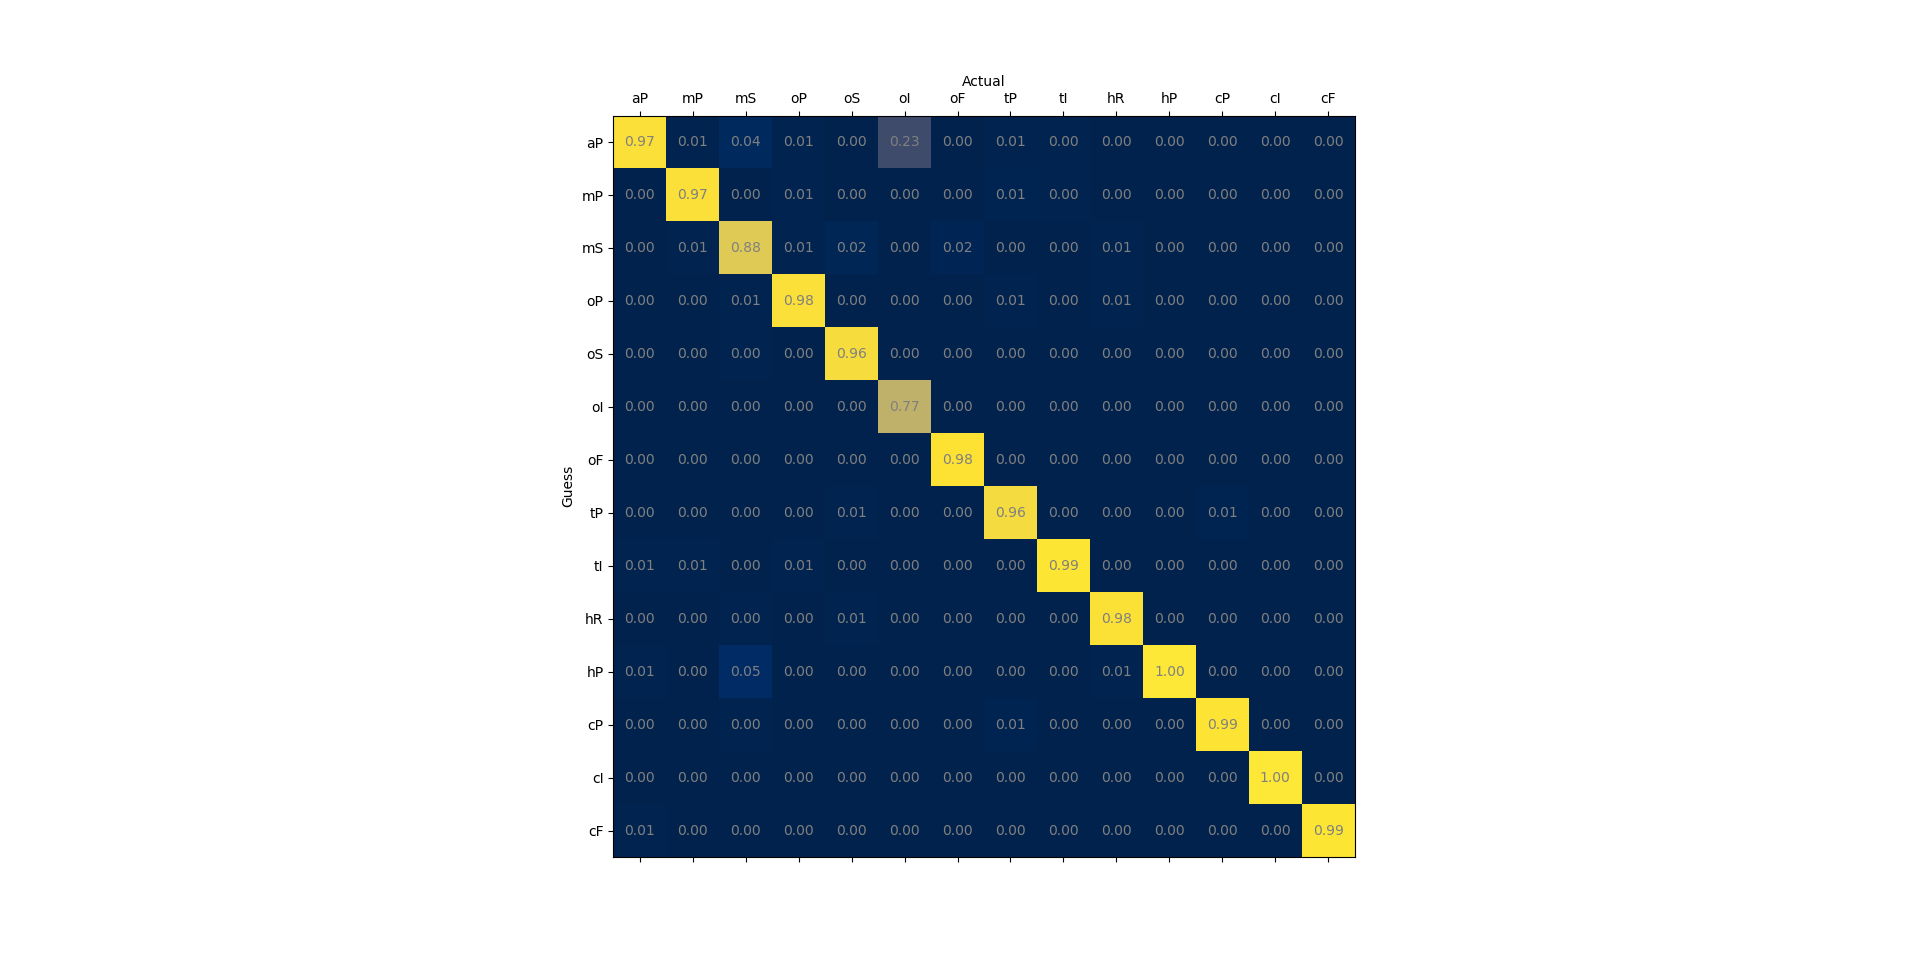
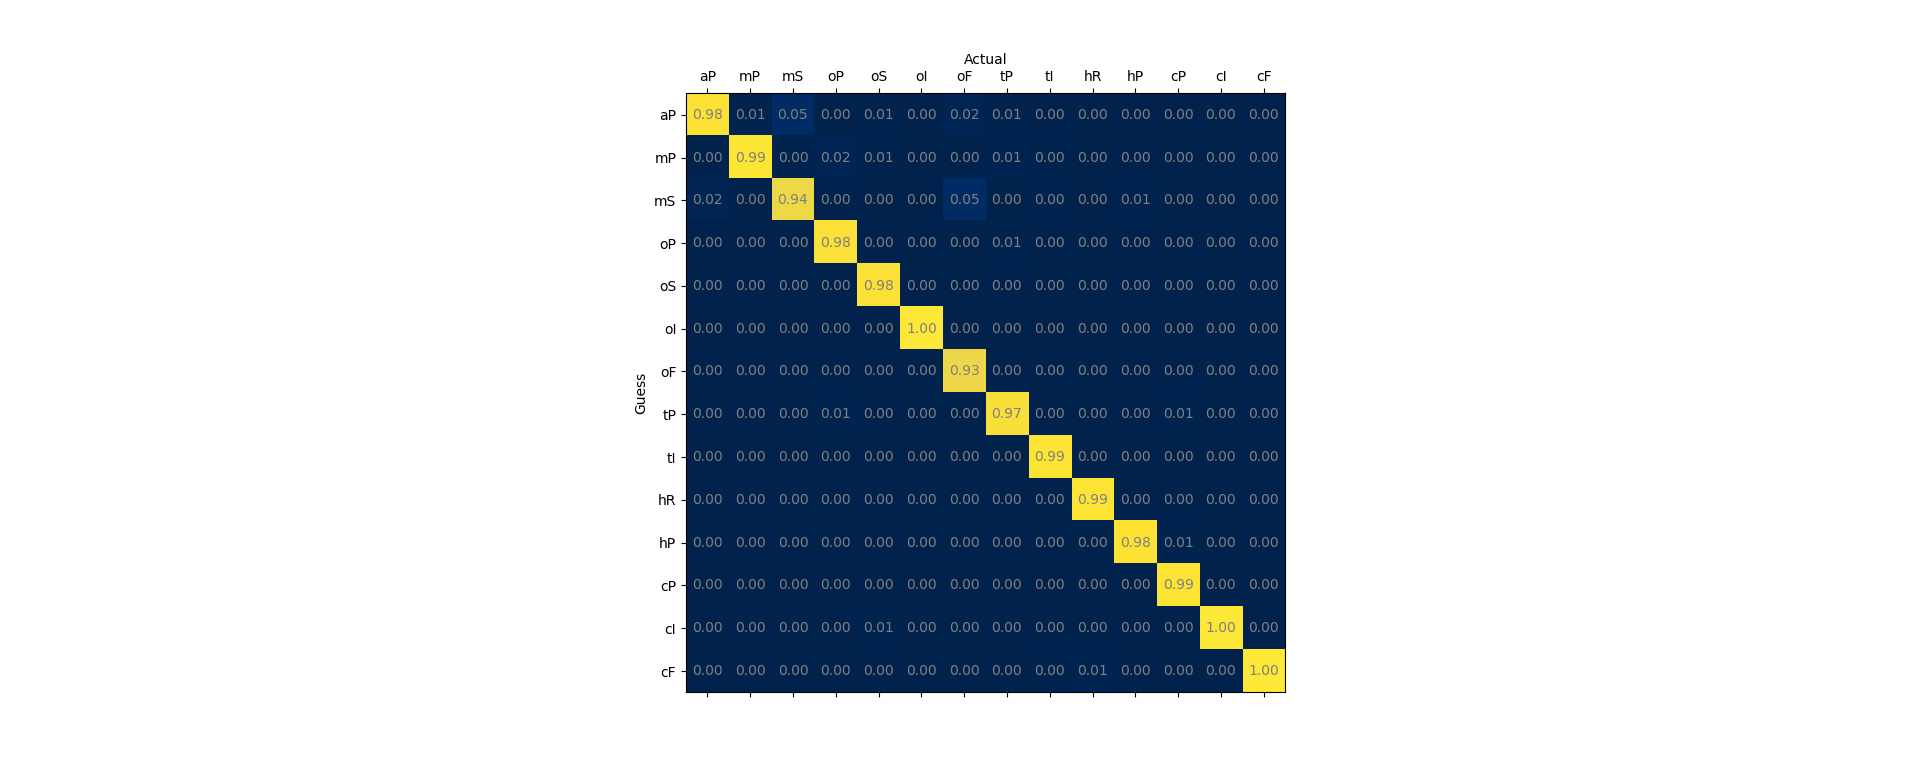
removed randomize when load, removed lattice system, fixed main_analysis

Changed region(s): [[0.3125, 0.0617, 0.7188, 0.8946]]

diff --git a/main_analysis.py b/main_analysis.py
@@ -2,63 +2,54 @@ import numpy as np
 
 import function_analysis
 import crystalsystem
-import latticesystem
 import bravaislattice
 
 if __name__ == '__main__':
+    # # space group
     # function_analysis.print_result(
     #     group_numbers=range(1, 231),
     #     guess_list_dir="list/guess/",
     #     actual_list_dir="list/actual/",
-    #     list_format="spacegroup_list_{}.txt"
+    #     list_format="spacegroup_list_{}.txt",
+    #     validate_size=0.1
     # )
     #
-    # def json2inputlabel(data_json):
+    # def json2label(data_json):
     #     data_label_np = np.array([data_json["number"] - 1])
     #     return data_label_np
-    # function_analysis.get_confusion(range(1, 231), "list/guess/spacegroup_list_{}.txt", json2inputlabel)
+    # function_analysis.plot_confusion(range(1, 231), "list/guess/spacegroup_list_{}.txt", json2label)
 
+    # # crystal system
     # function_analysis.print_result(
     #     group_numbers=range(1, 8),
     #     guess_list_dir="list/guess/",
     #     actual_list_dir="list/actual/",
-    #     list_format="crystalsystem_list_{}.txt"
+    #     list_format="crystalsystem_list_{}.txt",
+    #     validate_size=0.1
     # )
     #
-    # def json2inputlabel(data_json):
+    # def json2label(data_json):
     #     data_label_np = np.array([crystalsystem.crystalsystem_number(data_json["number"]) - 1])
     #     return data_label_np
-    # function_analysis.get_confusion(
-    #     ["TRI", "MCL", "ORC", "TET", "TRG", "HEX", "CUB"], "list/guess/crystalsystem_list_{}.txt", json2inputlabel
+    # function_analysis.plot_confusion(
+    #     ["TRI", "MCL", "ORC", "TET", "TRG", "HEX", "CUB"], "list/guess/crystalsystem_list_{}.txt", json2label
     # )
 
-    # function_analysis.print_result(
-    #     group_numbers=range(1, 8),
-    #     guess_list_dir="list/guess/",
-    #     actual_list_dir="list/actual/",
-    #     list_format="latticesystem_list_{}.txt"
-    # )
-    #
-    # def json2inputlabel(data_json):
-    #     data_label_np = np.array([latticesystem.latticesystem_number(data_json["number"]) - 1])
-    #     return data_label_np
-    # function_analysis.get_confusion(
-    #     ["TRI", "MCL", "ORC", "TET", "RHL", "HEX", "CUB"], "list/guess/latticesystem_list_{}.txt", json2inputlabel
-    # )
-
+    # bravais lattice
     function_analysis.print_result(
         group_numbers=range(1, 15),
         guess_list_dir="list/guess/",
         actual_list_dir="list/actual/",
-        list_format="bravaislattice_list_{}.txt"
+        list_format="bravaislattice_list_{}.txt",
+        validate_size=0.1
     )
 
-    def json2inputlabel(data_json):
+    def json2label(data_json):
         data_label_np = np.array([bravaislattice.bravaislattice_number(data_json["number"]) - 1])
         return data_label_np
-    function_analysis.get_confusion(
+    function_analysis.plot_confusion(
         ["aP", "mP", "mS", "oP", "oS", "oI", "oF", "tP", "tI", "hR", "hP", "cP", "cI", "cF"],
-        "list/guess/bravaislattice_list_{}.txt", json2inputlabel
+        "list/guess/bravaislattice_list_{}.txt", json2label
     )
 
     pass

diff --git a/function_analysis.py b/function_analysis.py
@@ -5,10 +5,11 @@ import matplotlib.pyplot as plt
 
 
 def total_count(group_numbers, list_dir, list_format):
-    counts = np.zeros(len(group_numbers)).astype(int)
-    for i, index in enumerate(group_numbers):
-        counts[i] = len(open(list_dir + list_format.format(index)).readlines())
-    return counts
+    # counts = np.zeros(len(group_numbers)).astype(int)
+    # for i, index in enumerate(group_numbers):
+    #     counts[i] = len(open(list_dir + list_format.format(index)).readlines())
+    # return counts
+    return np.array([len(open(list_dir + list_format.format(gnum)).readlines()) for gnum in group_numbers])
 
 
 def correct_count(group_numbers, guess_list_dir, actual_list_dir, list_format):
@@ -22,19 +23,16 @@ def correct_count(group_numbers, guess_list_dir, actual_list_dir, list_format):
     return counts
 
 
-def print_result(group_numbers, guess_list_dir, actual_list_dir, list_format):
+def print_result(group_numbers, guess_list_dir, actual_list_dir, list_format, validate_size):
     guess_total = total_count(group_numbers, guess_list_dir, list_format)
-    actual_total = total_count(group_numbers, actual_list_dir, list_format)
+    actual_total = np.floor(total_count(group_numbers, actual_list_dir, list_format)*validate_size)
     guess_correct = correct_count(group_numbers, guess_list_dir, actual_list_dir, list_format)
     print("guess count:", guess_total, guess_total.sum())
     print("actual count:", actual_total, actual_total.sum())
     print("guess correct:", guess_correct, guess_correct.sum())
-
     print("correct percentage in guess:", (1 - (guess_total - guess_correct).sum()/guess_total.sum())*100)
-
     print("TP:", guess_correct)
-    print("TN:", np.full(len(group_numbers), actual_total.sum()) - guess_total - actual_total + guess_correct
-    if len(group_numbers) > 1 else None)
+    print("TN:", np.full(len(group_numbers), actual_total.sum()) - guess_total - actual_total + guess_correct)
     print("FP:", guess_total - guess_correct)
     print("FN:", actual_total - guess_correct)
 
@@ -49,8 +47,8 @@ def get_confusion(num_group, guess_list_path_format, json2label):
             with open(file_name, "r") as file:
                 data_json = json.load(file)
             confusion[i, json2label(data_json)] += 1  # (guess, actual)
-        print(f"\r\t{i}/{num_group}", end="")
-    print(f"\r{num_group}")
+        print(f"\r\tload: {i}/{num_group}", end="")
+    print(f"\rload: {num_group}")
     confusion = confusion/np.maximum(1, confusion.sum(0))[None, :]
     return confusion
 

diff --git a/main_preparation.py b/main_preparation.py
@@ -3,7 +3,6 @@ import os
 import function_list
 
 import crystalsystem
-import latticesystem
 import bravaislattice
 
 if __name__ == "__main__":
@@ -15,30 +14,24 @@ if __name__ == "__main__":
             print(f"dir \"{required_dir}\" exists")
 
     # prepare input data # (Do this every time dataset is changed)
-    # function_list.create_valid_list_file(
-    #     num_bands=100,
-    #     in_data_dir="data/hs_data_2/",
-    #     out_list_path="list/valid_list.txt"
-    # )
-    #
-    # function_list.create_any_actual_list_files(
-    #     num_group=230, in_list_path="list/valid_list.txt",
-    #     out_list_path_format="list/actual/spacegroup_list_{}.txt",
-    #     sgnum2outnum=lambda sgnum: sgnum
-    # )
-    #
-    # function_list.create_any_actual_list_files(
-    #     num_group=7, in_list_path="list/valid_list.txt",
-    #     out_list_path_format="list/actual/crystalsystem_list_{}.txt",
-    #     sgnum2outnum=lambda sgnum: crystalsystem.crystalsystem_number(sgnum)
-    # )
-    #
-    # function_list.create_any_actual_list_files(
-    #     num_group=7, in_list_path="list/valid_list.txt",
-    #     out_list_path_format="list/actual/latticesystem_list_{}.txt",
-    #     sgnum2outnum=lambda sgnum: latticesystem.latticesystem_number(sgnum)
-    # )
-    #
+    function_list.create_valid_list_file(
+        num_bands=100,
+        in_data_dir="data/100_48_d_data/",
+        out_list_path="list/valid_list.txt"
+    )
+
+    function_list.create_any_actual_list_files(
+        num_group=230, in_list_path="list/valid_list.txt",
+        out_list_path_format="list/actual/spacegroup_list_{}.txt",
+        sgnum2outnum=lambda sgnum: sgnum
+    )
+
+    function_list.create_any_actual_list_files(
+        num_group=7, in_list_path="list/valid_list.txt",
+        out_list_path_format="list/actual/crystalsystem_list_{}.txt",
+        sgnum2outnum=lambda sgnum: crystalsystem.crystalsystem_number(sgnum)
+    )
+
     function_list.create_any_actual_list_files(
         num_group=14, in_list_path="list/valid_list.txt",
         out_list_path_format="list/actual/bravaislattice_list_{}.txt",

diff --git a/main_bs2bl.py b/main_bs2bl.py
@@ -24,7 +24,7 @@ def main():
         torch.nn.LeakyReLU(),
         torch.nn.Linear(300, 100),
         torch.nn.LeakyReLU(),
-        torch.nn.Linear(100, 15),
+        torch.nn.Linear(100, 14),
         torch.nn.LeakyReLU(),
     )
     model = model.to(device)
@@ -40,7 +40,7 @@ def main():
         return data_input_np, data_label_np
     dataset = data_loader.AnyDataset(
         [f"list/actual/bravaislattice_list_{blnum}.txt" for blnum in range(1, 15)],
-        json2inputlabel, validate_size, shuffle=True
+        json2inputlabel, validate_size
     )
     validate_loader, train_loader = data_loader.get_validate_train_loader(dataset, 32)
 
@@ -57,12 +57,12 @@ def main():
         out_list_path_format="list/guess/bravaislattice_list_{}.txt"
     )
 
-    def json2inputlabel(data_json):
+    def json2label(data_json):
         data_label_np = np.array([bravaislattice.bravaislattice_number(data_json["number"]) - 1])
         return data_label_np
     function_analysis.plot_confusion(
         ["aP", "mP", "mS", "oP", "oS", "oI", "oF", "tP", "tI", "hR", "hP", "cP", "cI", "cF"],
-        "list/guess/bravaislattice_list_{}.txt", json2inputlabel
+        "list/guess/bravaislattice_list_{}.txt", json2label
     )
 
     import winsound

diff --git a/main_bs2cs.py b/main_bs2cs.py
@@ -40,7 +40,7 @@ def main():
         return data_input_np, data_label_np
     dataset = data_loader.AnyDataset(
         [f"list/actual/crystalsystem_list_{csnum}.txt" for csnum in range(1, 8)],
-        json2inputlabel, validate_size, shuffle=True
+        json2inputlabel, validate_size
     )
     validate_loader, train_loader = data_loader.get_validate_train_loader(dataset, 32)
 
@@ -57,12 +57,12 @@ def main():
         out_list_path_format="list/guess/crystalsystem_list_{}.txt"
     )
 
-    def json2inputlabel(data_json):
+    def json2label(data_json):
         data_label_np = np.array([crystalsystem.crystalsystem_number(data_json["number"]) - 1])
         return data_label_np
     function_analysis.plot_confusion(
         ["TRI", "MCL", "ORC", "TET", "TRG", "HEX", "CUB"],
-        "list/guess/crystalsystem_list_{}.txt", json2inputlabel
+        "list/guess/crystalsystem_list_{}.txt", json2label
     )
 
     import winsound

diff --git a/data_loader.py b/data_loader.py
@@ -9,15 +9,13 @@ from torch.utils.data.sampler import SubsetRandomSampler
 
 
 class AnyDataset(Dataset):
-    def __init__(self, in_list_paths, json2inputlabel, validate_size, shuffle: bool):
+    def __init__(self, in_list_paths, json2inputlabel, validate_size):
         validate_inputs = []
         validate_labels = []
         train_inputs = []
         train_labels = []
         if not isinstance(in_list_paths, list):  # if only one path is parsed
             in_list_paths = [in_list_paths]
-        if shuffle:
-            np.random.shuffle(in_list_paths)
         for i, in_list_path in enumerate(in_list_paths):
             if os.stat(in_list_path).st_size == 0:  # if file is empty
                 continue

diff --git a/main_cs2sg.py b/main_cs2sg.py
@@ -50,7 +50,7 @@ def main_one(csnum):
         return data_input_np, data_label_np
     dataset = data_loader.AnyDataset(
         [f"list/actual/spacegroup_list_{sgnum}.txt" for sgnum in crystalsystem.spacegroup_number_range(csnum)],
-        json2inputlabel, validate_size, shuffle=True
+        json2inputlabel, validate_size
     )
     validate_loader, train_loader = data_loader.get_validate_train_loader(dataset, 32)
 

diff --git a/function_training.py b/function_training.py
@@ -41,6 +41,7 @@ def validate_one_epoch(device, model, criterion, validate_loader):
             if torch.max(output, 1)[1] == data_label:
                 num_correct += 1
         print("\r\tvalidate batch:{}/{}".format(b, len(validate_loader)), end="")
+    val_loss /= num_validate
     num_correct /= num_validate
     return round(val_loss, 4), round(num_correct*100, 4)
 

diff --git a/main_bs2sg.py b/main_bs2sg.py
@@ -38,7 +38,7 @@ def main():
 
     dataset = data_loader.AnyDataset(
         [f"list/actual/spacegroup_list_{sgnum}.txt" for sgnum in range(1, 231)],
-        json2inputlabel, validate_size, shuffle=True
+        json2inputlabel, validate_size
     )
     validate_loader, train_loader = data_loader.get_validate_train_loader(dataset, 32)
 
